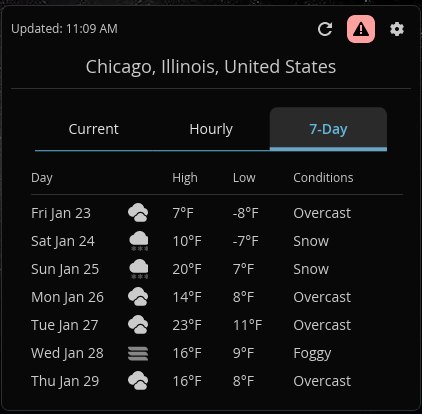
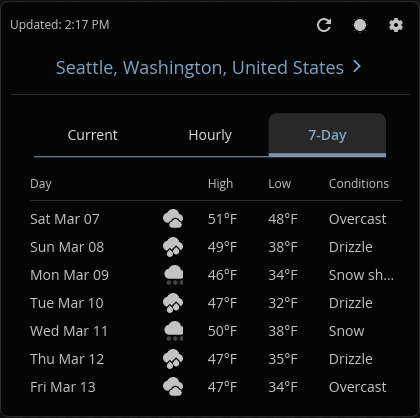
release 2.5.0

diff --git a/README.md b/README.md
@@ -22,13 +22,13 @@ No API keys. No accounts. Just weather.
 <summary><strong>More screenshots</strong></summary>
 <br>
 
-| Hourly | 7-Day |
-|--------|-------|
-| ![Hourly](screenshots/tempest-hourly.png) | ![7-Day](screenshots/tempest-7day.png) |
+| 7-Day Forecast | Weather Alerts |
+|----------------|----------------|
+| ![7-Day](screenshots/tempest-7day.png) | ![Alerts](screenshots/tempest-alerts.png) |
 
-| Air Quality | Alerts | Settings |
-|-------------|--------|----------|
-| ![Air Quality](screenshots/tempest-aiq.png) | ![Alerts](screenshots/tempest-alerts.png) | ![Settings](screenshots/tempest-settings.png) |
+| Saved Locations |
+|-----------------|
+| ![Locations](screenshots/tempest-locations.png) |
 
 </details>
 
@@ -38,6 +38,7 @@ No API keys. No accounts. Just weather.
 - **Tabbed popup** with current conditions, hourly forecast, 7-day outlook, weather alerts, and settings
 - **Air quality monitoring** with PM2.5, PM10, Ozone, NO2, CO, and automatic US/EU AQI standard detection
 - **Weather alerts** from NWS (US), ECCC (Canada), MeteoAlarm (EU), and BOM (Australia) with desktop notifications
+- **Saved locations** so you can bookmark cities and switch between them with one tap
 - **Automatic location** via IP geolocation, or search by city name, or enter coordinates manually
 - **Smart connectivity** that retries on failure and refreshes instantly when your network comes back
 - **10 languages** and counting, powered by community translators on Weblate